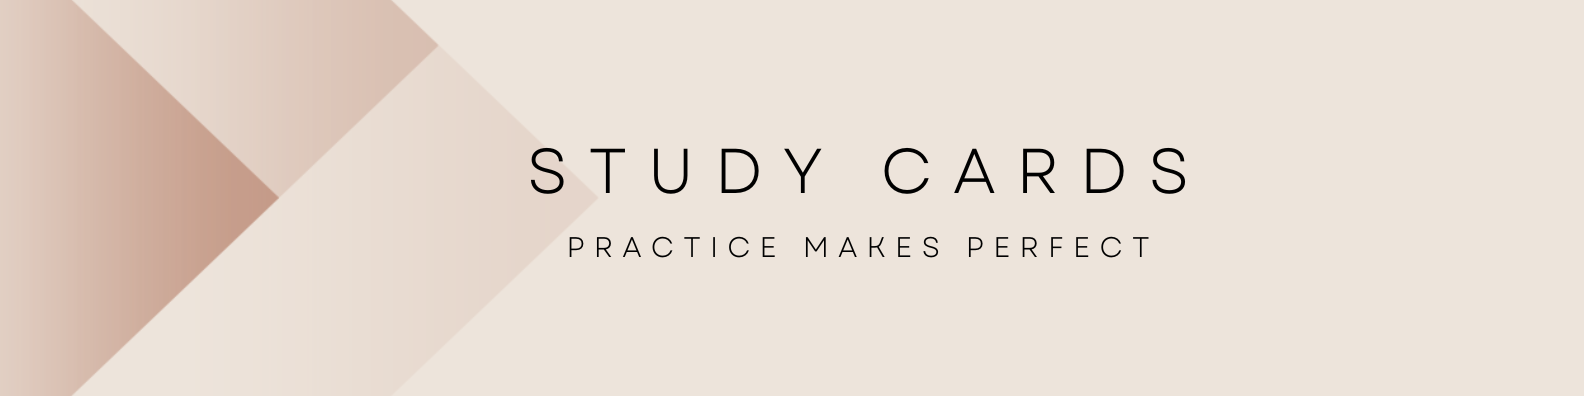
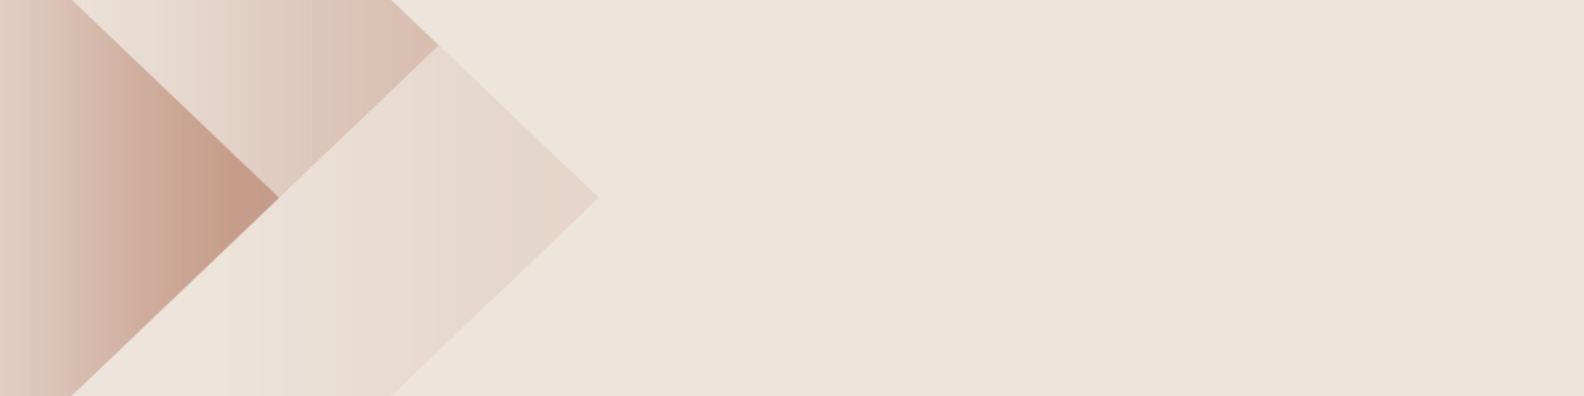
Changed header image. Edited padding of header.

diff --git a/style.css b/style.css
@@ -100,7 +100,7 @@ grid-template-columns: 2fr 2fr 2fr 2fr;
   header{
 
     margin: 20px;
-    padding:70px 70px 80px 10px;
+    padding:50px 40px 50px 10px;
     margin-top: 5px;
     display: block;
   }
